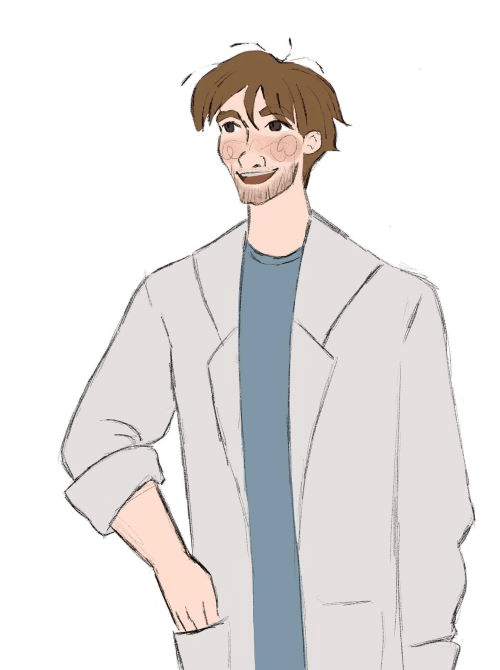
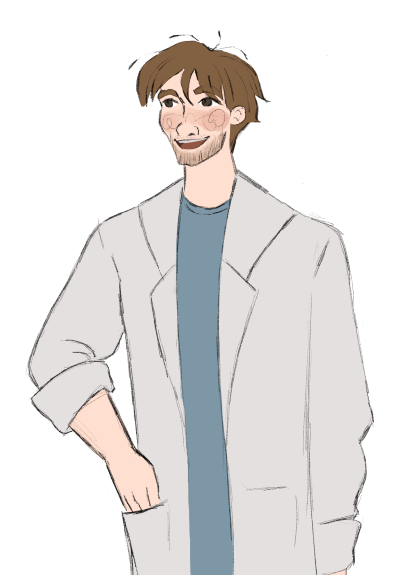
Personnages sans fond

diff --git a/src/epf/life/FenetreDeJeu.java b/src/epf/life/FenetreDeJeu.java
@@ -508,7 +508,7 @@ public class FenetreDeJeu extends javax.swing.JFrame {
         Jauges.setPreferredSize(new java.awt.Dimension(1390, 192));
         getContentPane().add(Jauges, new org.netbeans.lib.awtextra.AbsoluteConstraints(10, 10, 1390, 192));
 
-        Personnage.setIcon(new javax.swing.ImageIcon(getClass().getResource("/images/Jousset2.png"))); // NOI18N
+        Personnage.setIcon(new javax.swing.ImageIcon(getClass().getResource("/images/Antoine.png"))); // NOI18N
         Personnage.setText("jLabel1");
         getContentPane().add(Personnage, new org.netbeans.lib.awtextra.AbsoluteConstraints(1280, 250, 500, 700));
 
